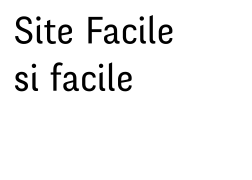
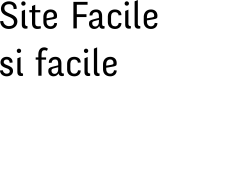
Motto with color changing was a little bit of a challenge

Changed region(s): [[0.0, 0.0, 0.6944, 0.5278]]

diff --git a/src/component/logo/style/_setting.scss b/src/component/logo/style/_setting.scss
@@ -13,4 +13,4 @@ $logo-sizes: (
 
 $svg-sifacilelogo: '<?xml version="1.0" encoding="UTF-8" standalone="no"?><svg   width="44"   height="18"   viewBox="0 0 11.641667 4.7624999"   version="1.1"   id="svg1"   xmlns="http://www.w3.org/2000/svg"   xmlns:svg="http://www.w3.org/2000/svg">  <defs     id="defs1" />  <g     id="layer1">    <path       d="m 3.6561914,4.6869249 c 0.9931626,0 1.6445272,-0.5352774 1.6445272,-1.2575777 0,-0.7674451 -0.4385427,-1.0641046 -1.3156217,-1.4252548 C 3.3917741,1.7590252 3.1015652,1.6364922 3.1015652,1.2495456 c 0,-0.32245606 0.3160066,-0.49658206 0.7932396,-0.50303146 0.4707867,0 0.8964305,0.1805754 1.154389,0.41919256 V 0.41116048 C 4.7331935,0.19833916 4.3655915,0.06935673 3.9592992,0.07580553 c -0.922222,0 -1.5800392,0.48368381 -1.5800392,1.17374007 0,0.767445 0.4256438,1.0705534 1.2898303,1.4317042 0.5933165,0.245066 0.909323,0.4062937 0.909323,0.741648 0,0.3547013 -0.2515121,0.5997679 -0.9222219,0.5997679 -0.5223758,0 -1.0705558,-0.1999224 -1.4639492,-0.5094802 V 4.235487 c 0.2515122,0.2192695 0.741644,0.4514379 1.4639492,0.4514379 z M 9.4346078,0.86259834 V 0.20478796 H 6.2358457 V 4.5837389 H 6.9387931 V 2.5780639 H 8.9251245 V 1.9202535 H 6.9387931 V 0.86259834 Z"       id="text1"       style="font-size:189.58px;font-family:Lack;-inkscape-font-specification:Lack;text-align:center;text-anchor:middle;fill:#ffffff;stroke:#ffffff;stroke-width:0.151151"       aria-label="SF" />  </g></svg>';
 
-$svg-motto: '<?xml version="1.0" encoding="UTF-8" standalone="no"?><!-- Created with Inkscape (http://www.inkscape.org/) --><svg   width="252.00002"   height="180"   viewBox="0 0 66.675004 47.625"   version="1.1"   id="svg1"   xmlns="http://www.w3.org/2000/svg"   xmlns:svg="http://www.w3.org/2000/svg">  <defs     id="defs1" />  <g     id="layer1">    <g       id="text1"       aria-label="Site Facile&#10;si facile">      <path         d="m 7.6669051,9.8216562 c 0,0.7115688 -0.5612376,1.0623428 -1.3128951,1.0623428 -0.8418565,0 -1.4532046,-0.561238 -1.5534256,-1.3630058 l -0.801768,0.050111 c 0.080177,1.3630048 1.0924089,2.0645528 2.3251273,2.0645528 1.2627846,0 2.2449505,-0.781723 2.2449505,-1.984376 0,-1.2527626 -1.1224753,-1.693735 -2.0645527,-2.094619 C 5.7125955,7.2159101 5.1212916,6.9252692 5.1212916,6.1435453 c 0,-0.7115691 0.5411934,-1.0723647 1.2126742,-1.0723647 0.8117901,0 1.2427404,0.4409724 1.2427404,1.2928509 L 8.3784743,6.313921 C 8.4887174,5.0310922 7.5867283,4.319523 6.3339658,4.319523 c -1.2026521,0 -2.1146632,0.8218123 -2.1146632,1.9643317 0,1.2327184 0.9721437,1.6636687 1.9142212,2.0545306 0.7717017,0.3207072 1.5333813,0.6113481 1.5333813,1.4832709 z M 10.593367,6.5243851 9.7414881,6.8751587 v 3.6480443 c 0,1.00221 0.7817239,1.162564 1.5033149,0.962122 v -0.601326 c -0.471039,0 -0.651436,-0.160354 -0.651436,-0.661459 z M 9.5911565,4.9008049 c 0,0.3307293 0.2405305,0.5712597 0.5612375,0.5712597 0.340752,0 0.591304,-0.2405304 0.591304,-0.5712597 0,-0.3307293 -0.250552,-0.5812819 -0.591304,-0.5812819 -0.320707,0 -0.5612375,0.2505526 -0.5612375,0.5812819 z M 13.289306,10.102275 V 7.2259322 h 1.342962 V 6.6246061 h -1.342962 v -1.403094 l -0.851878,0.3507735 v 1.0523205 h -0.701547 v 0.6013261 h 0.701547 v 2.9164308 c 0,1.102431 0.681503,1.493293 1.393072,1.493293 0.250552,0 0.681503,-0.04009 0.952099,-0.150331 l -0.04009,-0.601326 c 0,0 -0.300663,0.05011 -0.62137,0.05011 -0.430951,0 -0.831835,-0.100221 -0.831835,-0.831834 z m 4.890787,-1.0623426 c 0.741636,-0.1603537 0.881945,-0.2505526 0.881945,-0.9120112 0,-0.9921879 -0.641414,-1.6536466 -1.703757,-1.6536466 -1.212674,0 -1.864111,0.8318344 -1.914221,1.8641107 -0.02004,0.4710387 -0.02004,0.7817239 0,1.493293 0.03007,1.0723647 0.731613,1.8039777 1.914221,1.8039777 1.112453,0 1.733824,-0.761679 1.693735,-1.553425 l -0.701547,-0.05011 c -0.07015,0.501105 -0.370818,0.901989 -0.992188,0.901989 -0.641414,0 -1.072365,-0.43095 -1.072365,-1.2527622 V 9.3606396 c 0,0 1.14252,-0.1603536 1.894177,-0.3207072 z M 16.285916,8.4987389 c 0,-0.7717017 0.320708,-1.3229172 1.072365,-1.3229172 0.541194,0 0.851879,0.3607956 0.851879,0.9320553 0,0.2705967 -0.07015,0.3607956 -0.511127,0.4610166 -0.691525,0.1503315 -1.413117,0.2405304 -1.413117,0.2405304 z m 7.105679,2.9865861 h 0.901989 V 8.4786947 H 26.84922 V 7.7270372 H 24.293584 V 5.2215121 h 2.846277 V 4.4698545 h -3.748266 z m 8.248184,-0.601326 c -0.43095,0 -0.651437,-0.05011 -0.651437,-0.551216 V 8.1980759 c 0,-1.1625636 -0.601326,-1.7238013 -1.613558,-1.7238013 -0.972143,0 -1.814,0.6113482 -1.703757,1.6135582 l 0.751658,-0.060133 c 0,-0.5211492 0.330729,-0.8518785 0.901989,-0.8518785 0.62137,0 0.81179,0.3908619 0.81179,1.0723647 v 0.4810608 c 0.02004,-0.010022 -1.00221,0.2204862 -1.62358,0.4008841 -0.751658,0.2204862 -1.00221,0.4409724 -1.00221,1.1124531 0,0.861901 0.62137,1.393072 1.373027,1.393072 0.661459,0 1.062343,-0.300663 1.33294,-0.751657 h 0.03007 c 0.160354,0.891967 1.182608,0.721591 1.393072,0.601326 z M 28.853635,9.5610816 c 0.43095,-0.1403094 1.282829,-0.3407514 1.282829,-0.3407514 v 0.6414144 c 0,0.6213704 -0.370818,1.1224754 -0.9521,1.1224754 -0.48106,0 -0.821812,-0.310685 -0.821812,-0.841857 0,-0.3006626 0.100221,-0.4509941 0.491083,-0.5812814 z m 5.562258,2.0745744 c 1.122475,0 1.713779,-0.761679 1.67369,-1.553425 l -0.701547,-0.05011 c -0.07015,0.501105 -0.370817,0.901989 -0.972143,0.901989 -0.631393,0 -1.032277,-0.370817 -1.062343,-1.2026517 -0.02004,-0.5311713 -0.02004,-0.8318344 0,-1.4532046 0.03007,-0.7316133 0.440972,-1.102431 1.022254,-1.102431 0.501105,0 0.932056,0.2505525 0.962122,0.8518785 l 0.751657,-0.05011 c 0.03007,-0.901989 -0.631392,-1.5033151 -1.713779,-1.5033151 -1.05232,0 -1.834044,0.6213703 -1.874133,1.8039781 -0.02004,0.5812818 -0.02004,0.9520996 0,1.6035361 0.03007,1.1725857 0.841857,1.7538667 1.914222,1.7538657 z m 3.527788,-5.1112709 -0.851878,0.3507736 v 3.6480443 c 0,1.00221 0.781724,1.162564 1.503315,0.962122 v -0.601326 c -0.471039,0 -0.651437,-0.160354 -0.651437,-0.661459 z m -1.00221,-1.6235802 c 0,0.3307293 0.240531,0.5712597 0.561238,0.5712597 0.340751,0 0.591304,-0.2405304 0.591304,-0.5712597 0,-0.3307293 -0.250553,-0.5812819 -0.591304,-0.5812819 -0.320707,0 -0.561238,0.2505526 -0.561238,0.5812819 z m 4.149142,5.9831941 c -0.471039,0 -0.651436,-0.150332 -0.651436,-0.651437 V 3.9687495 L 39.587298,4.319523 v 6.213702 c 0,1.00221 0.831834,1.152542 1.503315,0.9521 z m 3.648044,-1.8440666 c 0.741635,-0.1603537 0.881944,-0.2505526 0.881944,-0.9120112 0,-0.9921879 -0.641414,-1.6536466 -1.703757,-1.6536466 -1.212674,0 -1.86411,0.8318344 -1.914221,1.8641107 -0.02004,0.4710387 -0.02004,0.7817239 0,1.493293 0.03007,1.0723647 0.731614,1.8039777 1.914221,1.8039777 1.112454,0 1.733824,-0.761679 1.693735,-1.553425 l -0.701547,-0.05011 c -0.07015,0.501105 -0.370817,0.901989 -0.992188,0.901989 -0.641414,0 -1.072364,-0.43095 -1.072364,-1.2527622 V 9.3606396 c 0,0 1.142519,-0.1603536 1.894177,-0.3207072 z M 42.84448,8.4987389 c 0,-0.7717017 0.320707,-1.3229172 1.072364,-1.3229172 0.541194,0 0.851879,0.3607956 0.851879,0.9320553 0,0.2705967 -0.07015,0.3607956 -0.511127,0.4610166 C 43.566071,8.7192251 42.84448,8.809424 42.84448,8.809424 Z"         id="path4"         style="fill:#{color.$absolute-black};fill-opacity:1;stroke:none;stroke-opacity:1" />      <path         d="M 7.2760432,20.525259 C 7.3762642,19.723491 6.7849603,19.0019 5.7526839,19.0019 c -0.9320553,0 -1.6536465,0.581282 -1.6536465,1.463227 0,0.881945 0.6614586,1.232718 1.3930719,1.483271 0.7015471,0.24053 1.0723648,0.440972 1.0723648,0.8619 0,0.430951 -0.3407514,0.651437 -0.8117902,0.651437 -0.6113481,0 -0.9721437,-0.410906 -1.0322763,-0.901989 l -0.7516575,0.05011 c 0.010022,0.861901 0.701547,1.553426 1.7839338,1.553426 1.0222543,0 1.6636687,-0.631392 1.6636687,-1.423138 0,-0.9521 -0.8117901,-1.242741 -1.5333813,-1.52336 -0.5011051,-0.19042 -0.9320554,-0.380839 -0.9320554,-0.841856 0,-0.410906 0.3407514,-0.671481 0.7717017,-0.671481 0.5011051,0 0.8017681,0.33073 0.8017681,0.871923 z m 2.1347153,-1.473248 -0.8518786,0.350773 v 3.648045 c 0,1.00221 0.7817239,1.162563 1.5033151,0.962121 v -0.601326 c -0.4710387,0 -0.6514365,-0.160353 -0.6514365,-0.661458 z M 8.4085484,17.42843 c 0,0.33073 0.2405304,0.57126 0.5612376,0.57126 0.3407515,0 0.591304,-0.24053 0.591304,-0.57126 0,-0.330729 -0.2505525,-0.581281 -0.591304,-0.581281 -0.3207072,0 -0.5612376,0.250552 -0.5612376,0.581281 z m 6.5544576,1.00221 c 0,-0.881944 0.250553,-1.182607 0.751658,-1.182607 0.410906,0 0.661458,0.170375 0.661458,0.170375 l 0.270597,-0.571259 c -0.180398,-0.160354 -0.511127,-0.350774 -0.982166,-0.350774 -0.8619,0 -1.553425,0.581282 -1.553425,1.884155 v 0.771702 h -0.701547 v 0.601326 h 0.701547 v 4.259392 h 0.851878 v -4.259392 h 1.202652 v -0.601326 h -1.202652 z m 5.903026,4.980984 c -0.43095,0 -0.651436,-0.05011 -0.651436,-0.551215 v -2.134708 c 0,-1.162563 -0.601326,-1.723801 -1.613558,-1.723801 -0.972144,0 -1.814,0.611348 -1.703757,1.613558 l 0.751657,-0.06013 c 0,-0.521149 0.33073,-0.851879 0.901989,-0.851879 0.621371,0 0.81179,0.390862 0.81179,1.072365 v 0.481061 c 0.02004,-0.01002 -1.00221,0.220486 -1.62358,0.400884 -0.751657,0.220486 -1.00221,0.440972 -1.00221,1.112453 0,0.861901 0.62137,1.393072 1.373028,1.393072 0.661458,0 1.062343,-0.300663 1.332939,-0.751658 h 0.03007 c 0.160353,0.891967 1.182607,0.721592 1.393071,0.601326 z m -2.786143,-1.322917 c 0.43095,-0.140309 1.282828,-0.340751 1.282828,-0.340751 v 0.641414 c 0,0.62137 -0.370817,1.122475 -0.952099,1.122475 -0.481061,0 -0.821812,-0.310685 -0.821812,-0.841856 0,-0.300663 0.100221,-0.450995 0.491083,-0.581282 z m 5.562257,2.074575 c 1.122475,0 1.713779,-0.76168 1.673691,-1.553426 l -0.701547,-0.05011 c -0.07015,0.501105 -0.370818,0.901989 -0.972144,0.901989 -0.631392,0 -1.032276,-0.370818 -1.062343,-1.202652 -0.02004,-0.531171 -0.02004,-0.831834 0,-1.453205 0.03007,-0.731613 0.440973,-1.102431 1.022255,-1.102431 0.501105,0 0.932055,0.250553 0.962121,0.851879 l 0.751658,-0.05011 c 0.03007,-0.901989 -0.631392,-1.503315 -1.713779,-1.503315 -1.052321,0 -1.834045,0.62137 -1.874133,1.803978 -0.02004,0.581282 -0.02004,0.9521 0,1.603536 0.03007,1.172586 0.841856,1.753868 1.914221,1.753868 z m 3.527787,-5.111271 -0.851879,0.350773 v 3.648045 c 0,1.00221 0.781724,1.162563 1.503315,0.962121 v -0.601326 c -0.471038,0 -0.651436,-0.160353 -0.651436,-0.661458 z m -1.00221,-1.623581 c 0,0.33073 0.24053,0.57126 0.561237,0.57126 0.340752,0 0.591304,-0.24053 0.591304,-0.57126 0,-0.330729 -0.250552,-0.581281 -0.591304,-0.581281 -0.320707,0 -0.561237,0.250552 -0.561237,0.581281 z m 4.149146,5.983194 c -0.471039,0 -0.651437,-0.150331 -0.651437,-0.651436 v -6.263813 l -0.851878,0.350774 v 6.213702 c 0,1.00221 0.831834,1.152541 1.503315,0.952099 z m 3.648041,-1.844066 c 0.741636,-0.160354 0.881945,-0.250553 0.881945,-0.912011 0,-0.992188 -0.641414,-1.653647 -1.703757,-1.653647 -1.212674,0 -1.864111,0.831835 -1.914221,1.864111 -0.02004,0.471039 -0.02004,0.781724 0,1.493293 0.03007,1.072365 0.731613,1.803978 1.914221,1.803978 1.112453,0 1.733823,-0.76168 1.693735,-1.553426 l -0.701547,-0.05011 c -0.07015,0.501105 -0.370818,0.901989 -0.992188,0.901989 -0.641415,0 -1.072365,-0.43095 -1.072365,-1.252763 v -0.320707 c 0,0 1.14252,-0.160353 1.894177,-0.320707 z m -1.894177,-0.541194 c 0,-0.771701 0.320707,-1.322917 1.072365,-1.322917 0.541193,0 0.851878,0.360796 0.851878,0.932056 0,0.270596 -0.07015,0.360795 -0.511127,0.461016 -0.691525,0.150332 -1.413116,0.240531 -1.413116,0.240531 z"         id="path5"         style="fill:#{color.$absolute-black};fill-opacity:1;stroke:none;stroke-opacity:1" />    </g>  </g></svg>';
+$svg-motto: '<svg xmlns="http://www.w3.org/2000/svg" viewBox="0 0 252 180"><defs>    <symbol id="a">        <path            d="m 3.698155,5.8529067 c 0,0.7115688 -0.5612376,1.0623428 -1.3128951,1.0623428 -0.8418565,0 -1.4532046,-0.561238 -1.5534256,-1.3630058 l -0.801768,0.050111 c 0.080177,1.3630048 1.0924089,2.0645528 2.3251273,2.0645528 1.2627846,0 2.2449505,-0.781723 2.2449505,-1.984376 0,-1.2527626 -1.1224753,-1.693735 -2.0645527,-2.094619 C 1.7438454,3.2471606 1.1525415,2.9565197 1.1525415,2.1747958 c 0,-0.7115691 0.5411934,-1.0723647 1.2126742,-1.0723647 0.8117901,0 1.2427404,0.4409724 1.2427404,1.2928509 L 4.4097242,2.345172 C 4.5199673,1.0623432 3.6179782,0.350774 2.3652157,0.350774 c -1.2026521,0 -2.1146632,0.8218123 -2.1146632,1.9643317 0,1.2327184 0.9721437,1.6636687 1.9142212,2.0545306 C 2.9364754,4.690343 3.698155,4.9809839 3.698155,5.8529067 Z M 6.6246169,2.5556356 5.772738,2.9064092 v 3.6480443 c 0,1.00221 0.7817239,1.162564 1.5033149,0.962122 v -0.601326 c -0.471039,0 -0.651436,-0.160354 -0.651436,-0.661459 z M 5.6224064,0.9320554 c 0,0.3307293 0.2405305,0.5712597 0.5612375,0.5712597 0.340752,0 0.591304,-0.2405304 0.591304,-0.5712597 0,-0.3307293 -0.250552,-0.5812819 -0.591304,-0.5812819 -0.320707,0 -0.5612375,0.2505526 -0.5612375,0.5812819 z M 9.3205559,6.1335255 V 3.2571827 H 10.663518 V 2.6558566 H 9.3205559 v -1.403094 l -0.851878,0.3507735 v 1.0523205 h -0.701547 v 0.6013261 h 0.701547 v 2.9164308 c 0,1.102431 0.681503,1.493293 1.393072,1.493293 0.2505521,0 0.6815031,-0.04009 0.9520991,-0.150331 l -0.04009,-0.601326 c 0,0 -0.300663,0.05011 -0.62137,0.05011 -0.4309511,0 -0.8318351,-0.100221 -0.8318351,-0.831834 z M 14.211343,5.0711829 c 0.741636,-0.1603537 0.881945,-0.2505526 0.881945,-0.9120112 0,-0.9921879 -0.641414,-1.6536466 -1.703757,-1.6536466 -1.212674,0 -1.864111,0.8318344 -1.914221,1.8641107 -0.02004,0.4710387 -0.02004,0.7817239 0,1.493293 0.03007,1.0723647 0.731613,1.8039777 1.914221,1.8039777 1.112453,0 1.733824,-0.761679 1.693735,-1.553425 l -0.701547,-0.05011 c -0.07015,0.501105 -0.370818,0.901989 -0.992188,0.901989 -0.641414,0 -1.072365,-0.43095 -1.072365,-1.2527622 V 5.3918901 c 0,0 1.14252,-0.1603536 1.894177,-0.3207072 z M 12.317166,4.5299894 c 0,-0.7717017 0.320708,-1.3229172 1.072365,-1.3229172 0.541194,0 0.851879,0.3607956 0.851879,0.9320553 0,0.2705967 -0.07015,0.3607956 -0.511127,0.4610166 -0.691525,0.1503315 -1.413117,0.2405304 -1.413117,0.2405304 z m 7.105679,2.9865861 h 0.901989 V 4.5099452 H 22.88047 V 3.7582877 H 20.324834 V 1.2527626 h 2.846277 V 0.501105 h -3.748266 z m 8.248184,-0.601326 c -0.43095,0 -0.651437,-0.05011 -0.651437,-0.551216 V 4.2293264 c 0,-1.1625636 -0.601326,-1.7238013 -1.613558,-1.7238013 -0.972143,0 -1.814,0.6113482 -1.703757,1.6135582 l 0.751658,-0.060133 c 0,-0.5211492 0.330729,-0.8518785 0.901989,-0.8518785 0.62137,0 0.81179,0.3908619 0.81179,1.0723647 v 0.4810608 c 0.02004,-0.010022 -1.00221,0.2204862 -1.62358,0.4008841 -0.751658,0.2204862 -1.00221,0.4409724 -1.00221,1.1124531 0,0.861901 0.62137,1.393072 1.373027,1.393072 0.661459,0 1.062343,-0.300663 1.33294,-0.751657 h 0.03007 c 0.160354,0.891967 1.182608,0.721591 1.393072,0.601326 z M 24.884885,5.5923321 c 0.43095,-0.1403094 1.282829,-0.3407514 1.282829,-0.3407514 v 0.6414144 c 0,0.6213704 -0.370818,1.1224754 -0.9521,1.1224754 -0.48106,0 -0.821812,-0.310685 -0.821812,-0.841857 0,-0.3006626 0.100221,-0.4509941 0.491083,-0.5812814 z m 5.562258,2.0745744 c 1.122475,0 1.713779,-0.761679 1.67369,-1.553425 l -0.701547,-0.05011 c -0.07015,0.501105 -0.370817,0.901989 -0.972143,0.901989 -0.631393,0 -1.032277,-0.370817 -1.062343,-1.2026517 -0.02004,-0.5311713 -0.02004,-0.8318344 0,-1.4532046 0.03007,-0.7316133 0.440972,-1.102431 1.022254,-1.102431 0.501105,0 0.932056,0.2505525 0.962122,0.8518785 l 0.751657,-0.05011 c 0.03007,-0.901989 -0.631392,-1.5033151 -1.713779,-1.5033151 -1.05232,0 -1.834044,0.6213703 -1.874133,1.8039781 -0.02004,0.5812818 -0.02004,0.9520996 0,1.6035361 0.03007,1.1725857 0.841857,1.7538667 1.914222,1.7538657 z m 3.527788,-5.1112709 -0.851878,0.3507736 v 3.6480443 c 0,1.00221 0.781724,1.162564 1.503315,0.962122 v -0.601326 c -0.471039,0 -0.651437,-0.160354 -0.651437,-0.661459 z m -1.00221,-1.6235802 c 0,0.3307293 0.240531,0.5712597 0.561238,0.5712597 0.340751,0 0.591304,-0.2405304 0.591304,-0.5712597 0,-0.3307293 -0.250553,-0.5812819 -0.591304,-0.5812819 -0.320707,0 -0.561238,0.2505526 -0.561238,0.5812819 z m 4.149142,5.9831941 c -0.471039,0 -0.651436,-0.150332 -0.651436,-0.651437 V 0 l -0.851879,0.3507735 v 6.213702 c 0,1.00221 0.831834,1.152542 1.503315,0.9521 z m 3.648044,-1.8440666 c 0.741635,-0.1603537 0.881944,-0.2505526 0.881944,-0.9120112 0,-0.9921879 -0.641414,-1.6536466 -1.703757,-1.6536466 -1.212674,0 -1.86411,0.8318344 -1.914221,1.8641107 -0.02004,0.4710387 -0.02004,0.7817239 0,1.493293 0.03007,1.0723647 0.731614,1.8039777 1.914221,1.8039777 1.112454,0 1.733824,-0.761679 1.693735,-1.553425 l -0.701547,-0.05011 c -0.07015,0.501105 -0.370817,0.901989 -0.992188,0.901989 -0.641414,0 -1.072364,-0.43095 -1.072364,-1.2527622 V 5.3918901 c 0,0 1.142519,-0.1603536 1.894177,-0.3207072 z M 38.87573,4.5299894 c 0,-0.7717017 0.320707,-1.3229172 1.072364,-1.3229172 0.541194,0 0.851879,0.3607956 0.851879,0.9320553 0,0.2705967 -0.07015,0.3607956 -0.511127,0.4610166 -0.691525,0.1503315 -1.413116,0.2405304 -1.413116,0.2405304 z" />            <path d="m 3.3072931,16.556509 c 0.100221,-0.801767 -0.4910829,-1.523358 -1.5233593,-1.523358 -0.9320553,0 -1.6536465,0.581282 -1.6536465,1.463226 0,0.881945 0.6614586,1.232718 1.3930719,1.483271 0.7015471,0.24053 1.0723648,0.440972 1.0723648,0.8619 0,0.430951 -0.3407514,0.651437 -0.8117902,0.651437 -0.6113481,0 -0.9721437,-0.410906 -1.0322763,-0.901989 L 0,18.641106 c 0.010022,0.861901 0.701547,1.553426 1.7839338,1.553426 1.0222543,0 1.6636687,-0.631391 1.6636687,-1.423138 0,-0.9521 -0.8117901,-1.242741 -1.5333813,-1.52336 -0.5011051,-0.19042 -0.9320554,-0.380839 -0.9320554,-0.841856 0,-0.410905 0.3407514,-0.67148 0.7717017,-0.67148 0.5011051,0 0.8017681,0.330729 0.8017681,0.871922 z m 2.1347153,-1.473247 -0.8518786,0.350773 v 3.648044 c 0,1.00221 0.7817239,1.162563 1.5033151,0.962121 v -0.601326 c -0.4710387,0 -0.6514365,-0.160353 -0.6514365,-0.661458 z M 4.4397983,13.45968 c 0,0.33073 0.2405304,0.57126 0.5612376,0.57126 0.3407515,0 0.591304,-0.24053 0.591304,-0.57126 0,-0.330729 -0.2505525,-0.581281 -0.591304,-0.581281 -0.3207072,0 -0.5612376,0.250552 -0.5612376,0.581281 z m 6.5544577,1.002211 c 0,-0.881944 0.250553,-1.182607 0.751658,-1.182607 0.410906,0 0.661458,0.170375 0.661458,0.170375 l 0.270597,-0.57126 c -0.180398,-0.160354 -0.511127,-0.350774 -0.982166,-0.350774 -0.8619,0 -1.553425,0.581282 -1.553425,1.884155 v 0.771702 H 9.4408309 v 0.601326 H 10.142378 V 20.0442 h 0.851878 v -4.259392 h 1.202652 v -0.601326 h -1.202652 z m 5.903026,4.980983 c -0.43095,0 -0.651436,-0.05011 -0.651436,-0.551215 v -2.134708 c 0,-1.162562 -0.601326,-1.7238 -1.613558,-1.7238 -0.972144,0 -1.814,0.611347 -1.703757,1.613557 l 0.751657,-0.06013 c 0,-0.521149 0.33073,-0.851878 0.901989,-0.851878 0.621371,0 0.81179,0.390861 0.81179,1.072364 v 0.481061 c 0.02004,-0.01002 -1.00221,0.220486 -1.62358,0.400884 -0.751657,0.220487 -1.00221,0.440972 -1.00221,1.112453 0,0.861901 0.62137,1.393072 1.373028,1.393072 0.661458,0 1.062343,-0.300663 1.332939,-0.751658 h 0.03007 c 0.160353,0.891968 1.182607,0.721593 1.393071,0.601326 z m -2.786143,-1.322917 c 0.43095,-0.140309 1.282828,-0.340751 1.282828,-0.340751 v 0.641414 c 0,0.62137 -0.370817,1.122475 -0.952099,1.122475 -0.481061,0 -0.821812,-0.310685 -0.821812,-0.841856 0,-0.300663 0.100221,-0.450995 0.491083,-0.581282 z m 5.562257,2.074575 c 1.122475,0 1.713779,-0.76168 1.673691,-1.553426 l -0.701547,-0.05011 c -0.07015,0.501105 -0.370818,0.901989 -0.972144,0.901989 -0.631392,0 -1.032276,-0.370818 -1.062343,-1.202652 -0.02004,-0.531171 -0.02004,-0.831834 0,-1.453205 0.03007,-0.731613 0.440973,-1.10243 1.022255,-1.10243 0.501105,0 0.932055,0.250553 0.962121,0.851878 l 0.751658,-0.05011 c 0.03007,-0.901988 -0.631392,-1.503314 -1.713779,-1.503314 -1.052321,0 -1.834045,0.62137 -1.874133,1.803977 -0.02004,0.581283 -0.02004,0.9521 0,1.603537 0.03007,1.172585 0.841856,1.753868 1.914221,1.753868 z m 3.527787,-5.11127 -0.851879,0.350773 v 3.648044 c 0,1.00221 0.781724,1.162563 1.503315,0.962121 v -0.601326 c -0.471038,0 -0.651436,-0.160353 -0.651436,-0.661458 z m -1.00221,-1.623582 c 0,0.33073 0.24053,0.57126 0.561237,0.57126 0.340752,0 0.591304,-0.24053 0.591304,-0.57126 0,-0.330729 -0.250552,-0.581281 -0.591304,-0.581281 -0.320707,0 -0.561237,0.250552 -0.561237,0.581281 z m 4.149146,5.983194 c -0.471039,0 -0.651437,-0.150331 -0.651437,-0.651436 V 12.527626 L 24.844804,12.8784 v 6.213701 c 0,1.00221 0.831834,1.152541 1.503315,0.952099 z m 3.648041,-1.844066 c 0.741636,-0.160354 0.881945,-0.250553 0.881945,-0.912011 0,-0.992187 -0.641414,-1.653646 -1.703757,-1.653646 -1.212674,0 -1.864111,0.831835 -1.914221,1.86411 -0.02004,0.471039 -0.02004,0.781724 0,1.493293 0.03007,1.072366 0.731613,1.803978 1.914221,1.803978 1.112453,0 1.733823,-0.761679 1.693735,-1.553426 l -0.701547,-0.05011 c -0.07015,0.501105 -0.370818,0.901989 -0.992188,0.901989 -0.641415,0 -1.072365,-0.43095 -1.072365,-1.252763 v -0.320707 c 0,0 1.14252,-0.160353 1.894177,-0.320707 z m -1.894177,-0.541194 c 0,-0.771701 0.320707,-1.322917 1.072365,-1.322917 0.541193,0 0.851878,0.360796 0.851878,0.932056 0,0.270596 -0.07015,0.360795 -0.511127,0.461016 -0.691525,0.150332 -1.413116,0.240531 -1.413116,0.240531 z" />    </symbol></defs><use fill="#{color.$absolute-black}" width="200" height="50" x="0" y="0" href="#a" /></svg>';
